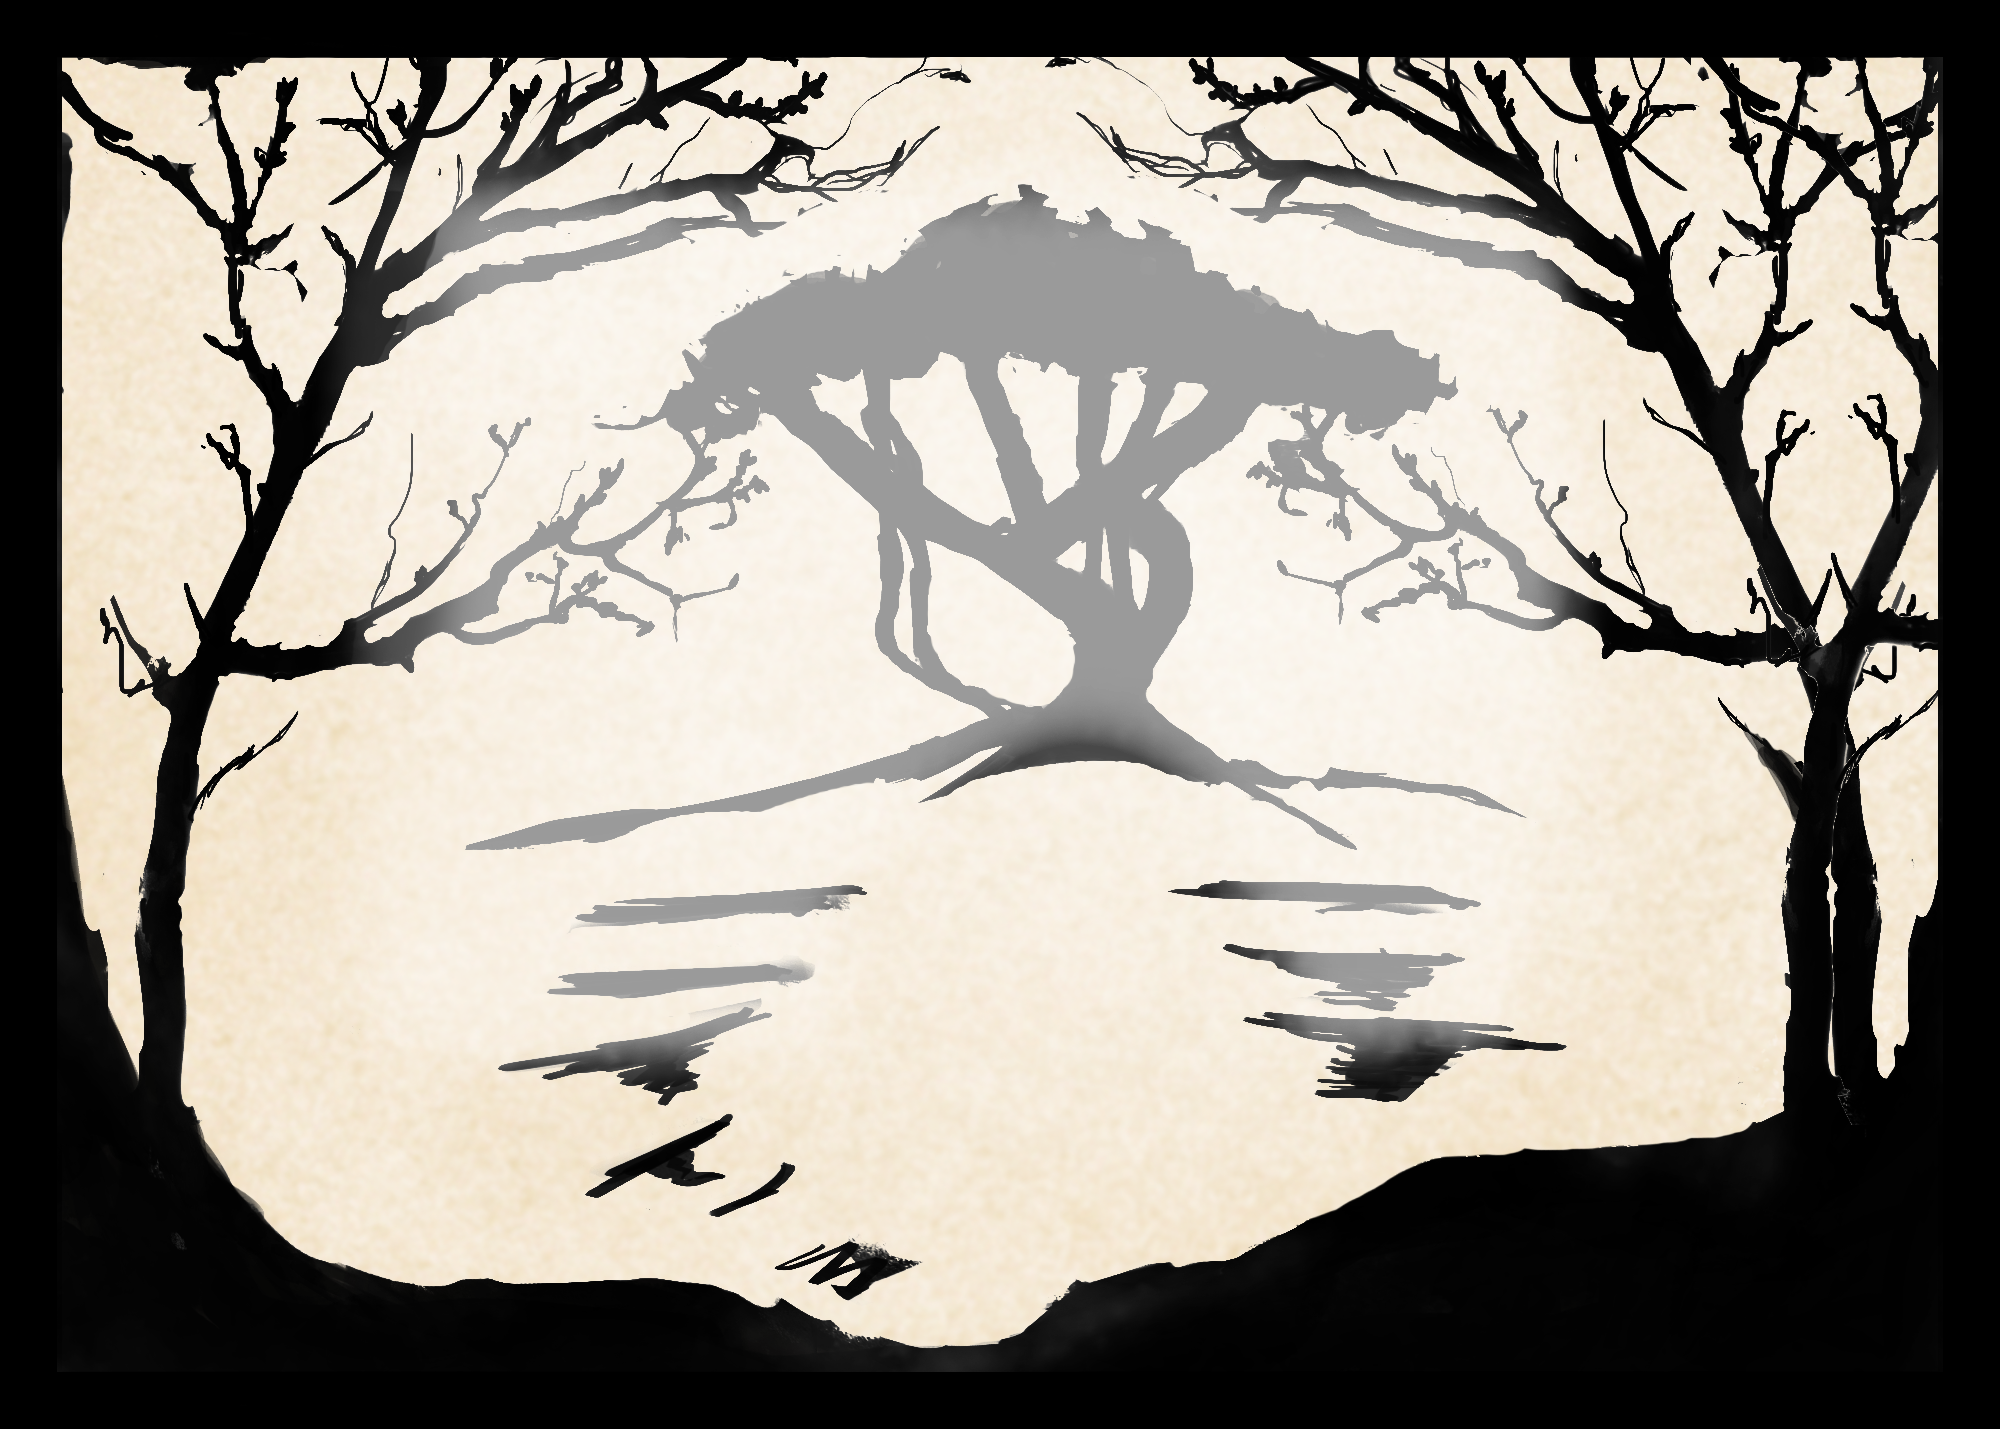
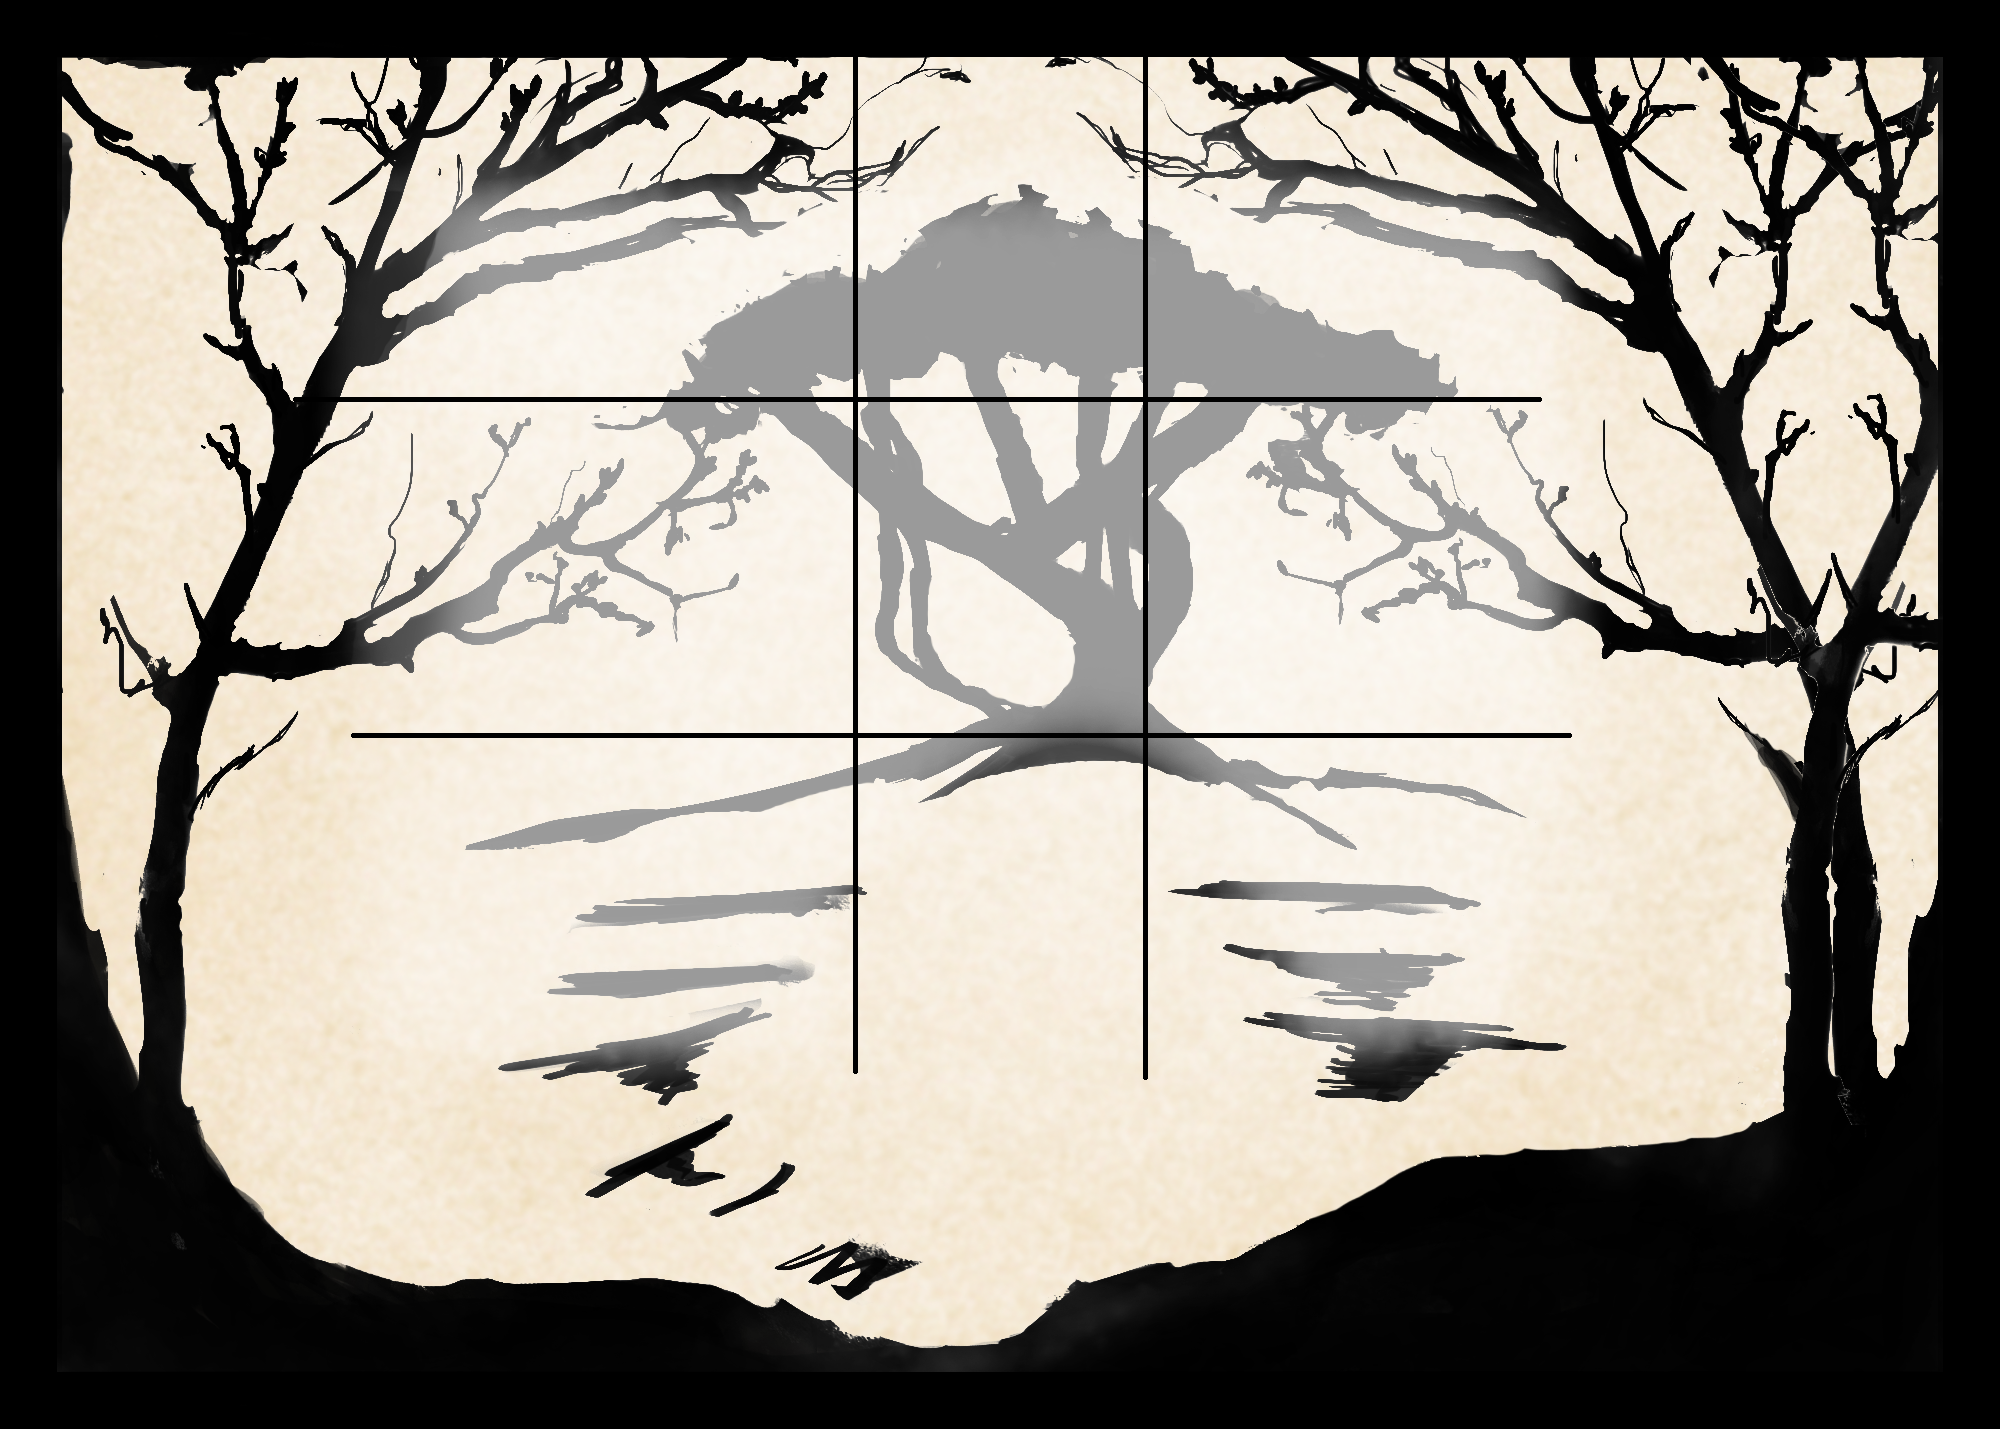
More alignments and issues fixed

Changed region(s): [[0.186, 0.4927, 0.775, 0.5234], [0.186, 0.2771, 0.744, 0.3079]]

diff --git a/App.js b/App.js
@@ -1,5 +1,5 @@
 import React, {Component} from 'react';
-import { StyleSheet, Text, Image, TextInput, View, Alert, Button,TouchableNativeFeedback } from 'react-native';
+import { StyleSheet, Text, Image, TextInput, View, Alert, Button,TouchableNativeFeedback, TouchableHighlight } from 'react-native';
 
 
 export default class App extends React.Component {
@@ -40,38 +40,48 @@ export default class App extends React.Component {
           <View style={styles.userNumInputs}>
               <Text style={{margin: 5,color:"white",fontSize:16, opacity:1}}>{i}</Text>
           </View>
-
       </TouchableNativeFeedback> 
       ) 
     }
    }
+
    userNumSelection();
   
-
    for(var i = 0; i < 9; i++){
      rows.push(<View key={"row"+i}style={styles.rows}>  
+                   
                    <View key ={"cell"+((1*9^i)+i)} style ={styles.cell}/>
                    <View key ={"cell"+((2*9^i)+i)} style ={styles.cell}/>
                    <View key ={"cell"+((3*9^i)+i)} style ={styles.cell}/>
+                   
                    <View key ={"cell"+((4*9^i)+i)} style ={styles.cell}/>
                    <View key ={"cell"+((5*9^i)+i)} style ={styles.cell}/>
                    <View key ={"cell"+((6*9^i)+i)} style ={styles.cell}/>
+                   
                    <View key ={"cell"+((7*9^i)+i)} style ={styles.cell}/>
                    <View key ={"cell"+((8*9^i)+i)} style ={styles.cell}/>
                    <View key ={"cell"+((9*9^i)+i)} style ={styles.cell}/>
+                 
                 </View> 
-      )
-
+          )
     }
 
-        // for(var j = 0; j < 9; j++){
-        //   cells.push(<View key ={"cell"+i} style ={styles.cell}>
-        //             <TextInput></TextInput>
-        //              </View>
-        //             )
-        // } 
-    
- 
+   // console.log(rows.toString());
+
+  //  var celldom = rows.map(function(cell) {
+  //   console.log(cell.toString());
+  //   for(var key in cell){
+  //       for(var x in key){
+  //         console.log(x);
+  //      }
+  //    console.log(key.toString());
+  //    }
+  // });
+
+// var values = Array.prototype.map.call(rows, function(obj) {
+//   return obj.value;
+// });
+// console.log(values);
 
     return (
      <View style={styles.wrapper}>
@@ -83,9 +93,10 @@ export default class App extends React.Component {
         <View style={styles.gridContainer}>
           {rows}
         </View>
-        <View style={styles.userInputContainer}>
+      <View style={styles.userInputContainer}>
         {renderUserSelect}
-      </View>
+        <Text style={[styles.userNumInputs, styles.textUp]}> TAG </Text>
+        </View>
       </View> 
       </Image>
     </View>
@@ -94,8 +105,6 @@ export default class App extends React.Component {
     );
   }
 }
-
-
 
 class Cell extends React.Component {
   render() {
@@ -154,6 +163,7 @@ const styles = StyleSheet.create({
 
   gridContainer: {
     flex:3,
+    marginTop:20,
    // backgroundColor: 'yellow',
     
   },
@@ -167,16 +177,25 @@ const styles = StyleSheet.create({
   
   },
 
+  cellsLine:{
+    borderWidth:2,
+    borderColor:"black",
+    backgroundColor:"black",
+    width:1,
+    opacity: .5,
+    height:50,
+   },
+
   cell:{
-    width: 30,
-    height: 30,
+    width: 32,
+    height: 32,
     backgroundColor: 'green',
     justifyContent: 'space-around',
     alignItems: 'center',
+    borderRadius: 5,
     borderBottomWidth: 2,
     borderLeftWidth: 2,
     opacity: .5,
-    borderRadius: 5,
    },
 
    background:{
@@ -186,19 +205,28 @@ const styles = StyleSheet.create({
     // resizeMode: 'contain',
    },
 
+  
+
   userInputContainer:{
     flex:1,
     flexDirection:'row',
     justifyContent: 'space-around',
-    alignItems: 'flex-start',
-    //backgroundColor: 'green',
+    alignItems: 'center',
+   // backgroundColor: 'green',
+  },
+
+  userInputContainerInner:{
+    flexDirection:'column',
+    justifyContent: 'flex-end',
+    alignItems: 'flex-end',
+  //  backgroundColor: 'black',
   },
 
   userNumInputs:{   
     width: 35,
     height: 35, 
     backgroundColor: 'blue',
-    opacity: .5,
+    opacity: .8,
     borderRadius: 6,
     marginTop: 5,
   },
@@ -208,7 +236,10 @@ const styles = StyleSheet.create({
     height:50,
   },
 
-  
+  textUp:{
+    flexDirection: 'column',
+    color:'white',
+  },
 
 });
 
